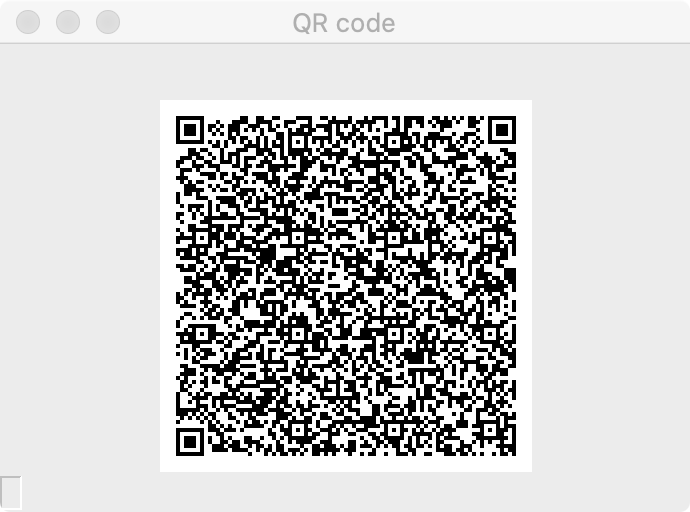
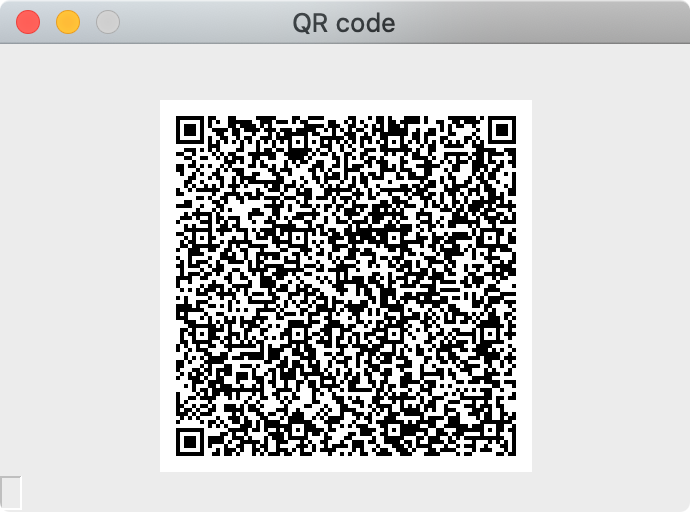
Fixed typos and improved read me

Changed region(s): [[0.2435, 0.2188, 0.7609, 0.9062], [0.0, 0.0, 1.0, 0.0938]]

diff --git a/README.md b/README.md
@@ -4,9 +4,15 @@ The purpose of this project is to establish a more secure alternative to paper b
 
 *Using GnuPG is not the most secure option given SHA512 is (more) vulnerable to brute-force attacks (using Argon2, for example, would be more secure, but would require using code to access backups vs simply piping the output of the QR code to `gpg` making backups less interoperable).
 
-This above thought process is open for debate (see [issues](https://github.com/sunknudsen/qr-backup/issues/1)).
+This above thought process is [open for debate](https://github.com/sunknudsen/qr-backup/issues/1).
 
-## The following is a proof-of-concept that requires work.
+## The following is a proof of concept
+
+```
+git clone https://github.com/sunknudsen/qr-backup.git
+cd qr-backup
+pipenv install
+```
 
 The following example can be used to create an encrypted paper backup of a Bitcoin BIP39 12-word mnemonic.
 
@@ -14,11 +20,11 @@ The following example can be used to create an encrypted paper backup of a Bitco
 $ echo "essence wisdom demise insane vital kitchen pet swarm robust warfare innocent dolphin" | gpg --s2k-mode 3 --s2k-count 65011712 --s2k-digest-algo sha512 --cipher-algo AES256 --symmetric --armor | pipenv run python main.py
 -----BEGIN PGP MESSAGE-----
 
[3 lines of base64/hex data omitted]
-ndF/pAk=
-=i95a
[3 lines of base64/hex data omitted]
+LnSvne0=
+=wIB/
 -----END PGP MESSAGE-----
 ```
 
@@ -26,7 +32,7 @@ ndF/pAk=
 
 ![QR code](./qr-code.png)
 
-## Requirements (also open for debate)
+## Requirements (also [open for debate](https://github.com/sunknudsen/qr-backup/issues/1))
 
 - Secure by design (dependability)
 - Runs on Python (increased interoperability)
@@ -43,7 +49,13 @@ echo "dtoverlay=disable-wifi" | sudo tee -a /boot/config.txt
 sudo reboot
 ```
 
-## To do (also open for debate)
+## To do (also [open for debate](https://github.com/sunknudsen/qr-backup/issues/1))
 
 - Figure out how to display QR code using framebuffer without writing file to filesystem (leading to removal of `opencv-python` dependency which currently doesn’t work on Raspberry Pi OS (32-bit) Lite without multiple additional apt installs)
 - Figure out how to display QR code using framebuffer on desktop environments such as macOS
+
+## Wish to contribute?
+
+Thanks so much for contributing to this project. 🤓
+
+Please [sign](https://sunknudsen.com/privacy-guides/docs#how-to-sign-pull-requests) pull requests.
